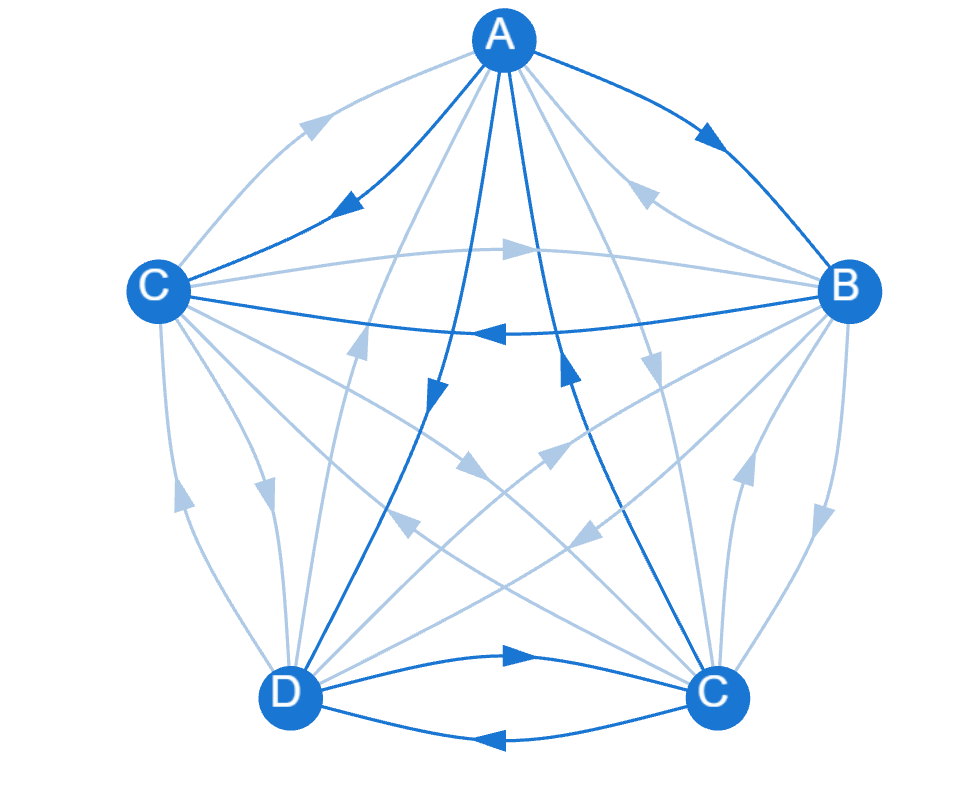
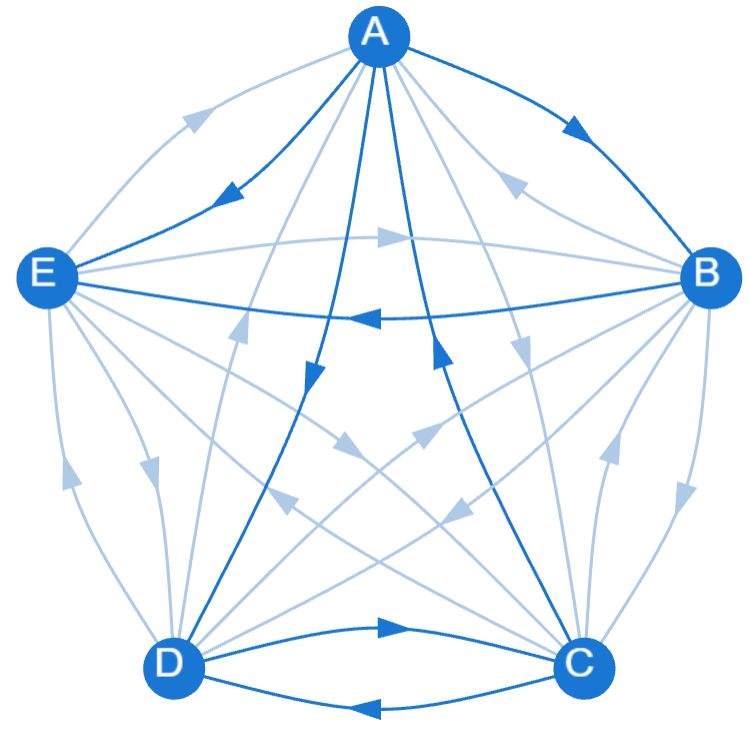
Fixed the letter of the 5th node from C to E
- the setup in App.vue was changed
- the resulting png files for the presets were also updated

diff --git a/src/App.vue b/src/App.vue
@@ -280,7 +280,7 @@ export default {
       this.pageRankSim.totalHits = 0;
     },
     init(reset = false) {
-      const NODE_NAMES = ["C", "D", "C", "A", "B"];
+      const NODE_NAMES = ["C", "D", "E", "A", "B"];
       let n1;
       let n2;
       let n3;
